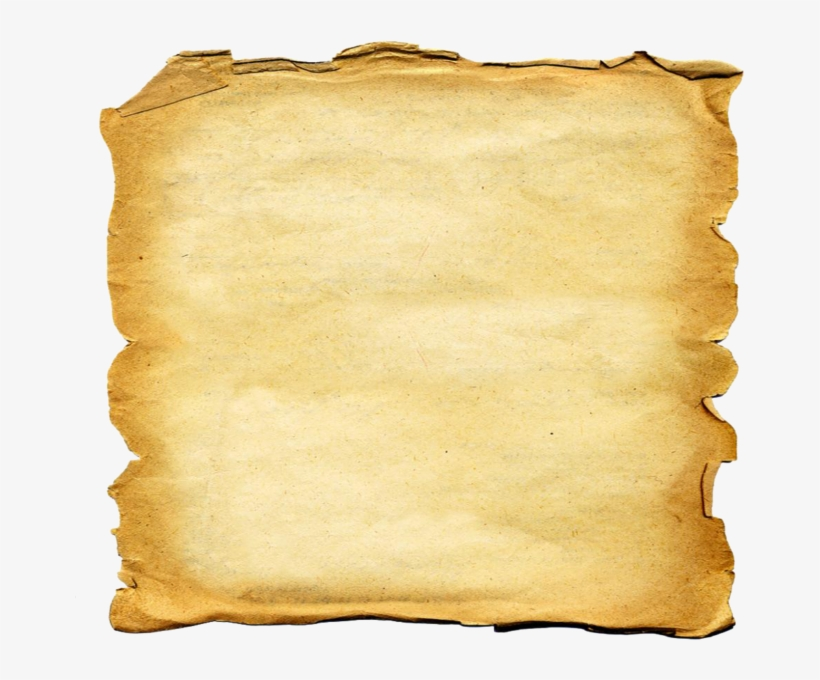
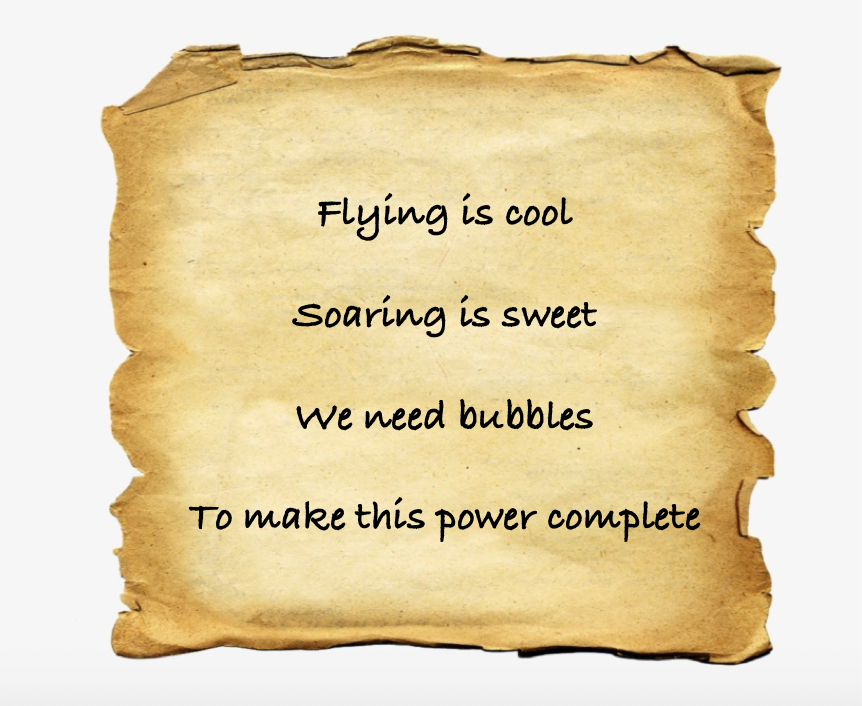
update

diff --git a/AdventureGame/game.py b/AdventureGame/game.py
@@ -72,6 +72,45 @@ def room2(player):
             printP("Hmm...I did not understand that.") 
 
 
+def room3(player): 
+    printP("Upon entry, the first thing you see is a Wizard.")
+    printP("The Wizard seems to be reading his spell book.")
+    printP("He is brewing some potions in his cauldron.")
+    printP("Finally, the Wizard offers you a potion.") 
+    while True:
+        printP("There are two potions to choose from.")
+        printP("The one on the right is pink and bubbly.")
+        printP("The one on the left is green and slimy.") 
+        print("Would you like to (1)drink the potion on the right, (2)the one on the left or (3)leave the Wizard's chamber.")
+        print("Enter 1, 2 or 3.")
+        x = input("")
+
+        if x == "1":
+            printP("You choose the potion on the right.")
+            printP("After drinking it, you realize you now have the power to fly!")
+            printP("This is so exciting! You fly out of the castle to show all your friends your new ability.")
+            player["win"] = True
+            break 
+
+        elif x == "2":
+            printP("You choke down the potion on the left.")
+            printP("Immediately, your body starts to tingle.")
+            animal = choice(["frog", "snail"])
+            printP("Before you know it, you have turned into a " + animal + ".")
+            printP("You start freaking out and run out of the castle to find a doctor.")
+            player["win"] = False
+            break 
+        
+        elif x == "3":
+            printP("Potions are scary!")
+            printP("You don't want to take any chances.")
+            printP("You run out of the Wizard's chamber as fast as you can.")
+            start(player)
+            break
+        else:
+            printP("Hmm...I did not understand that.")
+
+
 def setup():
     player = {"room": 1, "win": False}
     cls()
@@ -80,6 +119,22 @@ def setup():
     printP("Your curiosity entails you to go inside.")
     start(player)
 
-
-
+    if player["win"]:
+        printP("Congrats! You have won.")
+    else:
+        printP("Sorry! You have lost.")
+    
+    while True:
+        print("Would you like to play again?")
+        print("Enter Y or N.")
+        x = input("").lower()
+        if x == "y":
+            printP("Let's do this!")
+            setup()
+        elif x == "n":
+            printP("Goodbye. :(")
+            break 
+        else:
+            printP("Hmm...I did not understand that.")
+        
 setup()
